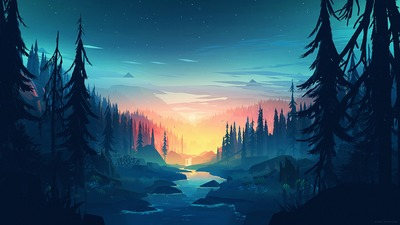
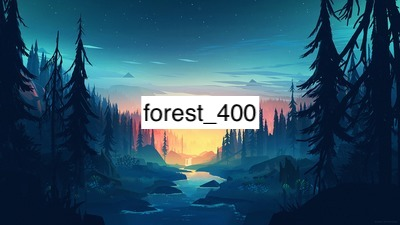
added dz6-srcset

Changed region(s): [[0.33, 0.4044, 0.66, 0.5911]]

diff --git a/06-lection4/03-srcset/index.html b/06-lection4/03-srcset/index.html
@@ -1,10 +1,22 @@
 <!DOCTYPE html>
 <html lang="ru">
     <head>
-        <link rel="stylesheet" href="../../assets/css/main.css">
+        <link rel="stylesheet" href="../../assets/css/normalize.css">
+        <link rel="stylesheet" href="../../assets/css/index.css">
         <link rel="stylesheet" href="./srcset.css">
     </head>
+    <style>
+      body {
+        display: flex;
+        justify-content: center;
+        align-items: center;
+    }
+    </style>
     <body>
-
+      <div class="srcset">
+        <img class="srcset__img" src="./public/forest_400.jpg" alt="forest"
+          srcset="./public/forest_400.jpg 1x,
+                  ./public/forest_768.jpg 2x">
+      </div>
     </body>
 </html>

diff --git a/06-lection4/03-srcset/srcset.css b/06-lection4/03-srcset/srcset.css
@@ -1,0 +1,13 @@
+.srcset {
+  width: 300px;
+  height: 300px;
+  background-color: var(--grey-2);
+ 
+  display: flex;
+  align-items: center;
+  justify-content: center;
+}
+
+.srcset__img {
+  width: 100%;
+}
